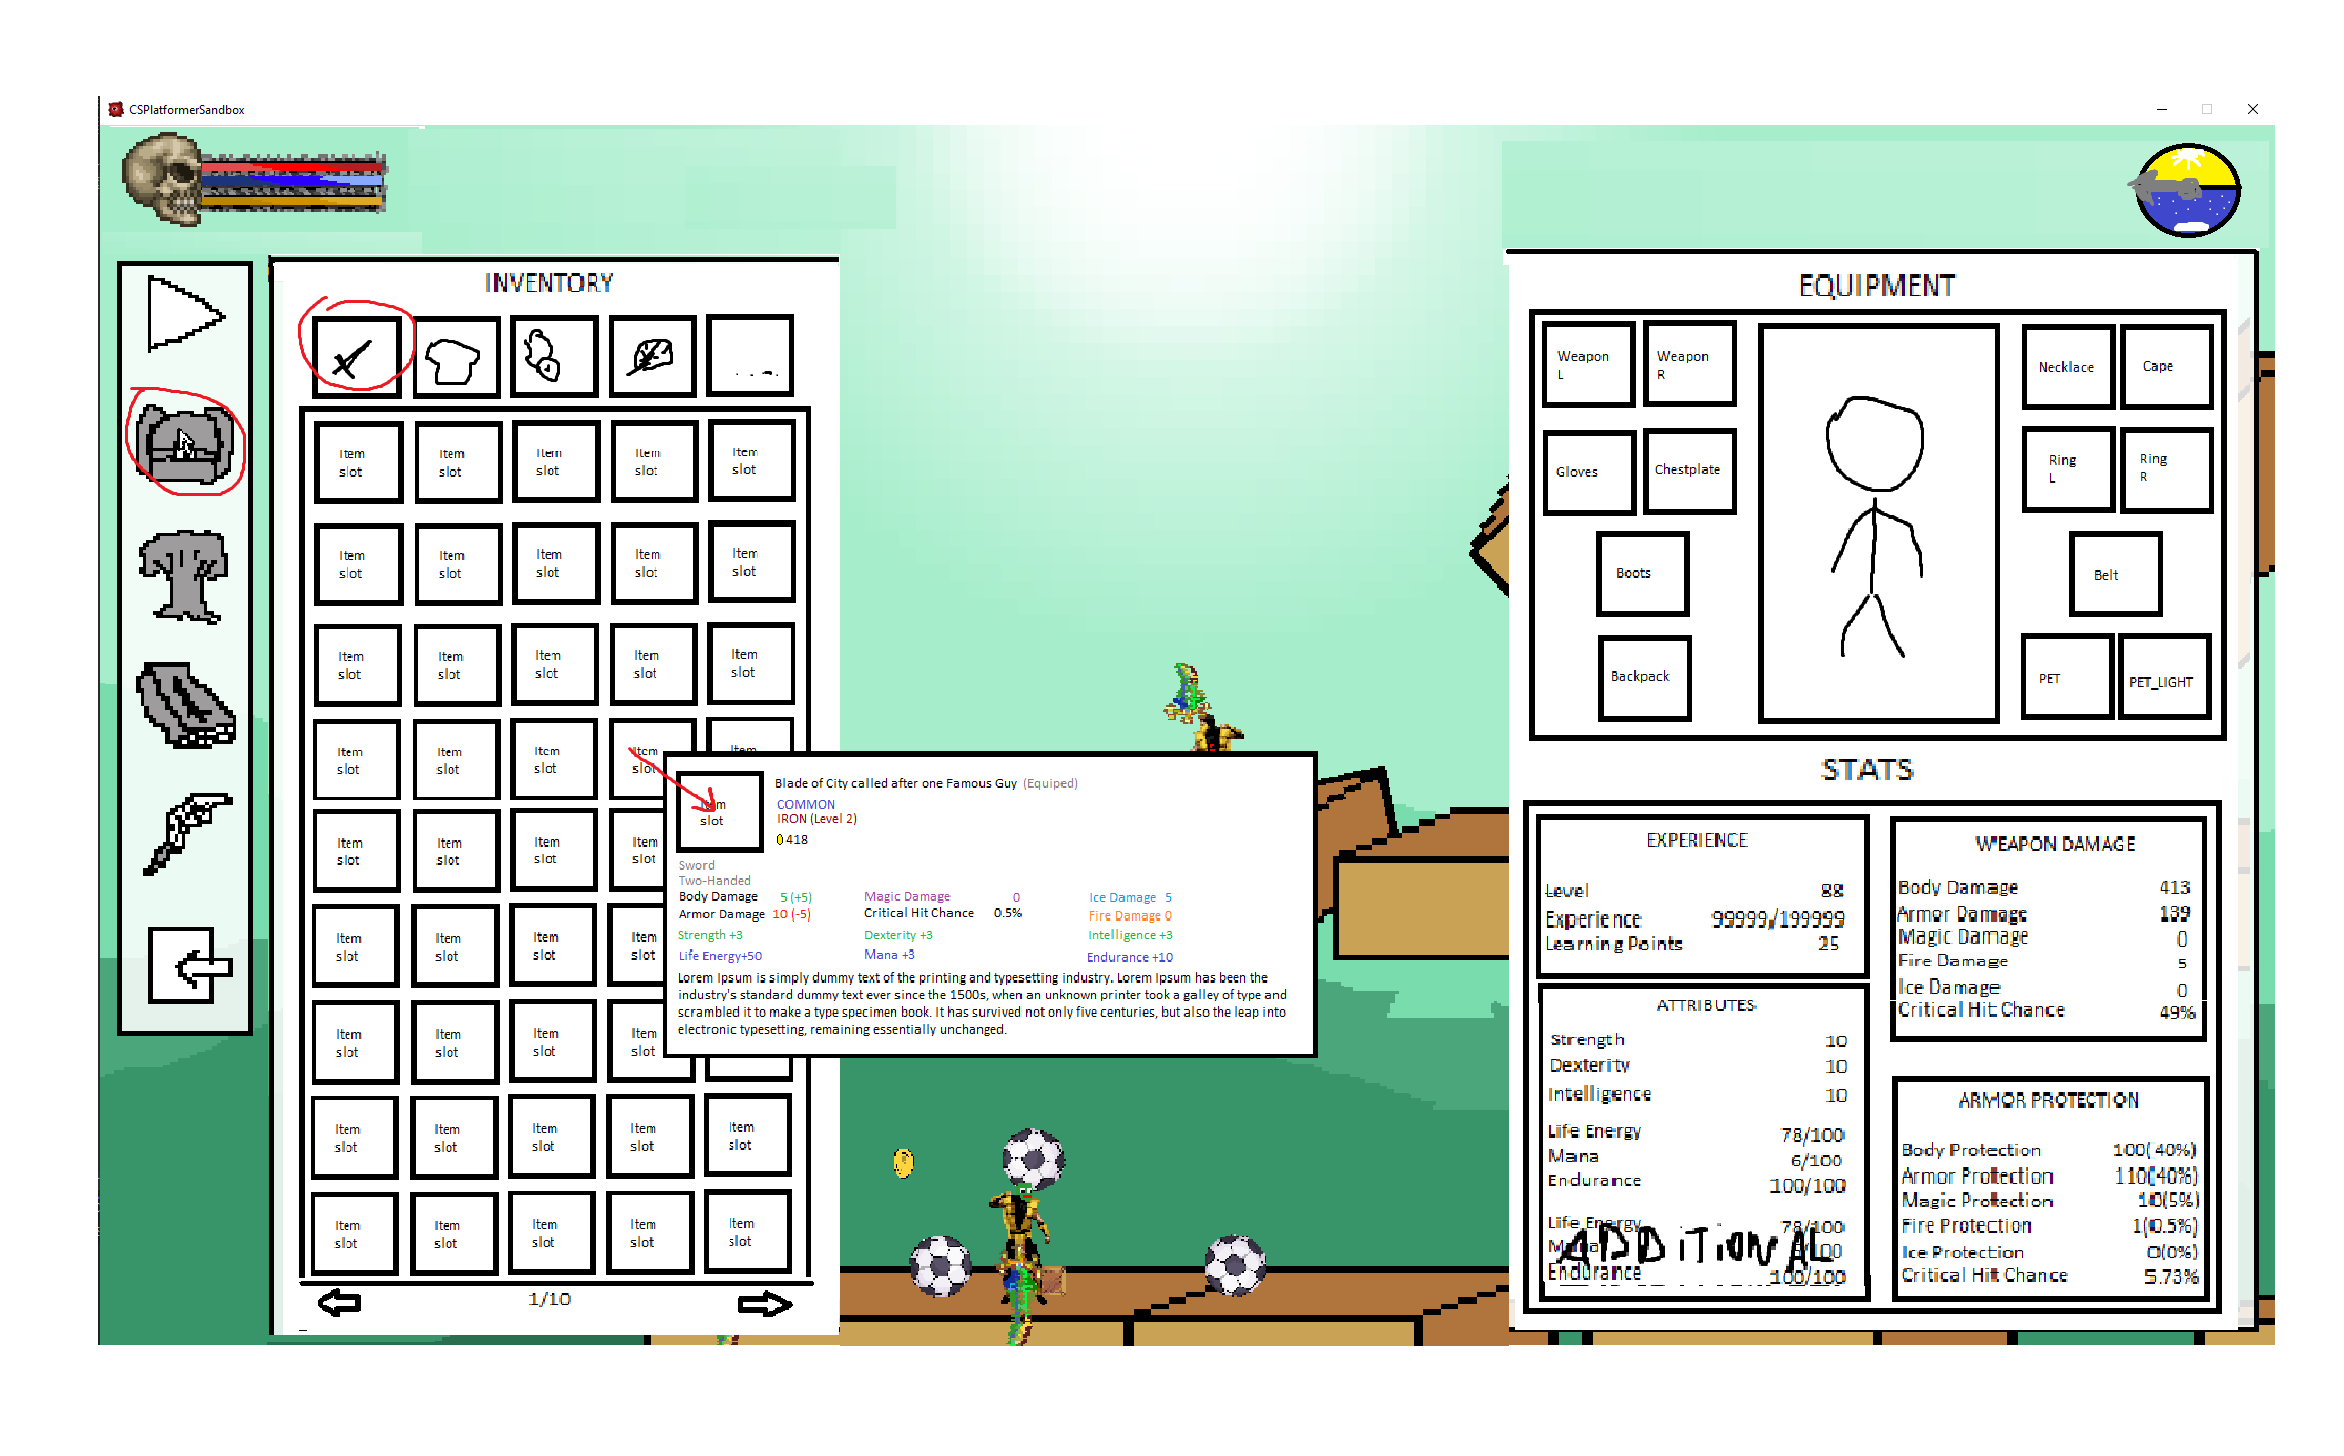
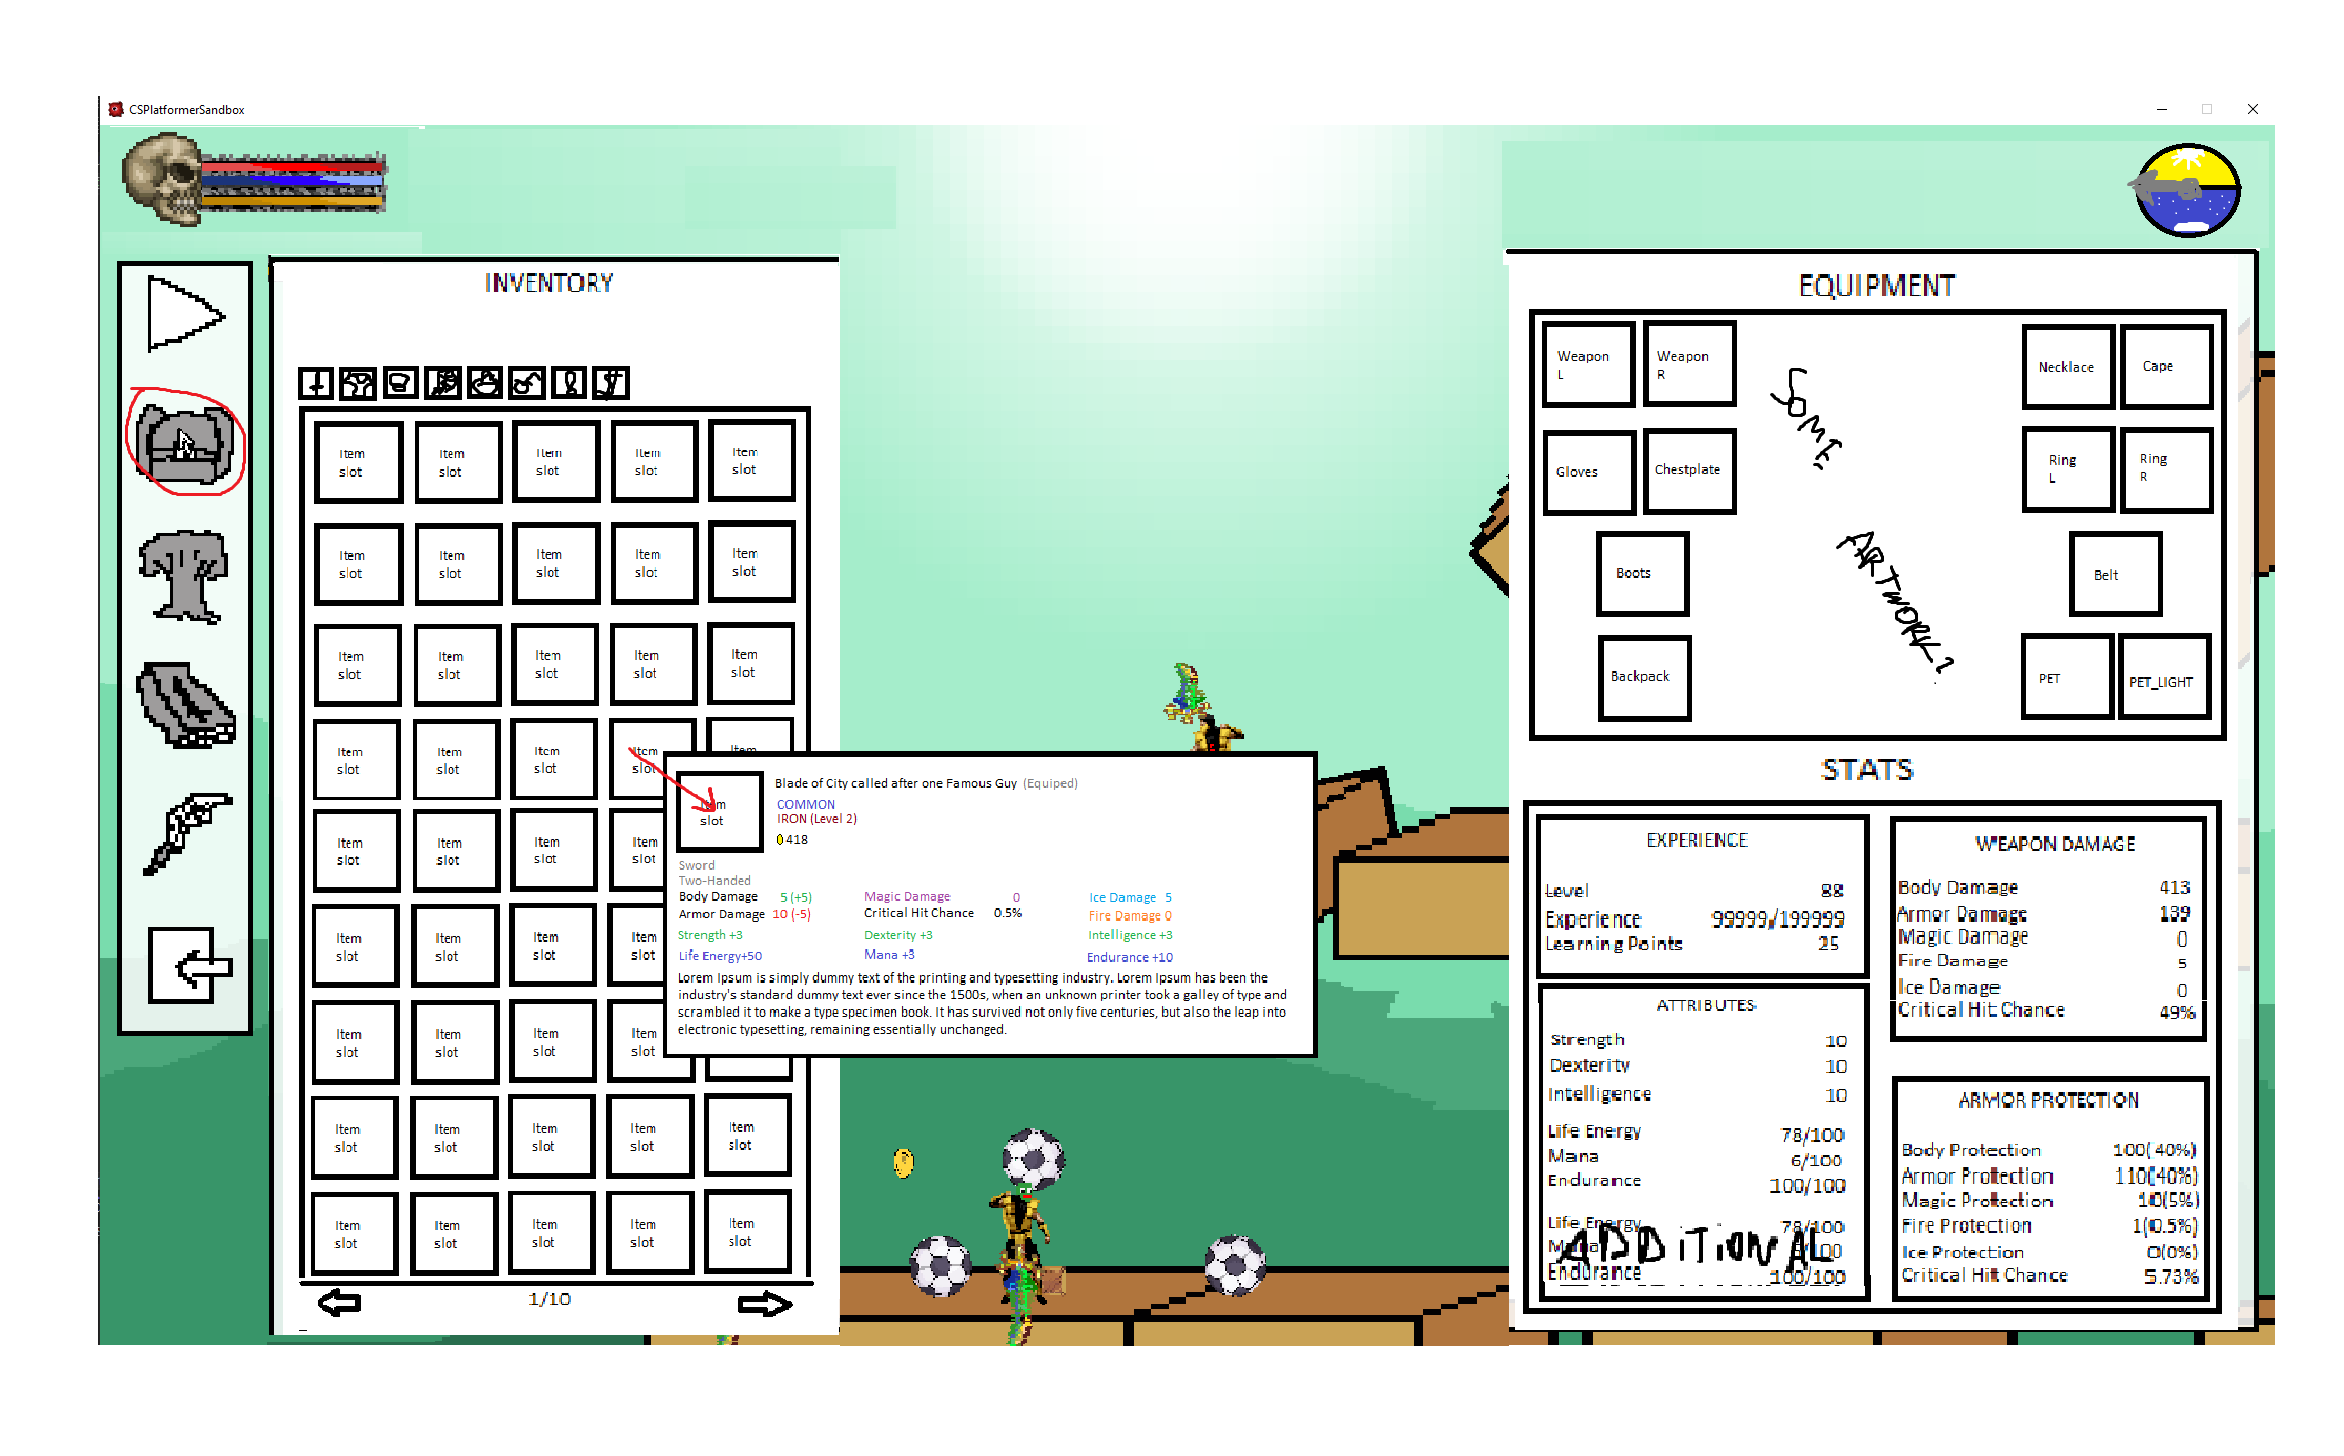
ui inventory sorting intermediate commit

Changed region(s): [[0.7474, 0.2163, 0.872, 0.4636], [0.1246, 0.2163, 0.3426, 0.2782], [0.7474, 0.4636, 0.7786, 0.4945]]

diff --git a/projects/game/src/Engine/UI/Services/Inventory/Sorting/UIInventorySortingService.cs b/projects/game/src/Engine/UI/Services/Inventory/Sorting/UIInventorySortingService.cs
@@ -10,51 +10,46 @@ namespace UI
 
     public enum UIInventorySortingOptions
     {
+        NONE,
         WEAPONS,
         ARMORS,
         ACCESSORIES,
-        POTIONS,
-        MISC,
+        MATERIALS,
+        CONSUMABLES,
+        KEYS,
+        QUEST_ITEMS,
+        CURRENCIES
     };
 
     public class UIInventorySortingService
     {
 
-        public List<Item> TotalItems;
+        public List<Item> OriginalItemList;
 
-        public UIInventorySortingService(List<Item> totalItems)
+        public UIInventorySortingService(List<Item> itemList)
         {
-            TotalItems = totalItems;
+            OriginalItemList = itemList;
         }
 
-        public List<Item> GetSortedItems(UIInventorySortingOptions newOption = UIInventorySortingOptions.WEAPONS)
+        public List<Item> GetSortedItems(UIInventorySortingOptions newOption = UIInventorySortingOptions.NONE)
         {
+            if(newOption == UIInventorySortingOptions.NONE)
+                return OriginalItemList;
 
-            List<Item> sortedItems = TotalItems
+            List<Item> sortedItems = OriginalItemList
                 .Where(item => item != null && ItemTypeToUISortingOption.TryGetValue(item.Type, out var sortingOption) && sortingOption == newOption)
+                .OrderBy(item => item.Name)
                 .ToList();
 
-            while (sortedItems.Count < TotalItems.Count)
+            sortedItems.AddRange(OriginalItemList
+                .Where(item => item != null && (!ItemTypeToUISortingOption.TryGetValue(item.Type, out var sortingOption) || sortingOption != newOption)));
+
+            while (sortedItems.Count < OriginalItemList.Count)
             {
                 sortedItems.Add(null);
             }
 
             return sortedItems;
-        }
-
-        public List<Item> GetChangedItems(List<Item> newItems, UIInventorySortingOptions sortingOption)
-        {
-            TotalItems.RemoveAll(item => item != null && ItemTypeToUISortingOption.TryGetValue(item.Type, out var option) && option == sortingOption);
-
-            TotalItems.AddRange(newItems.Where(item => item != null));
-
-            int originalSize = TotalItems.Count;
-            while (TotalItems.Count < originalSize)
-            {
-                TotalItems.Add(null);
-            }
-
-            return TotalItems;
         }
 
         public static Dictionary<ItemLib.ItemTypes, UIInventorySortingOptions> ItemTypeToUISortingOption = new()
@@ -74,12 +69,12 @@ namespace UI
             { ItemLib.ItemTypes.PET_LIGHT, UIInventorySortingOptions.ACCESSORIES },
             { ItemLib.ItemTypes.CONTAINMENT, UIInventorySortingOptions.ACCESSORIES },
 
-            { ItemLib.ItemTypes.CONSUMABLE, UIInventorySortingOptions.POTIONS },
-            { ItemLib.ItemTypes.MATERIAL, UIInventorySortingOptions.POTIONS },
+            { ItemLib.ItemTypes.CONSUMABLE, UIInventorySortingOptions.CONSUMABLES },
+            { ItemLib.ItemTypes.MATERIAL, UIInventorySortingOptions.MATERIALS },
 
-            { ItemLib.ItemTypes.CURRENCY, UIInventorySortingOptions.MISC },
-            { ItemLib.ItemTypes.KEY, UIInventorySortingOptions.MISC },
-            { ItemLib.ItemTypes.QUEST_ITEM, UIInventorySortingOptions.MISC },
+            { ItemLib.ItemTypes.CURRENCY, UIInventorySortingOptions.CURRENCIES },
+            { ItemLib.ItemTypes.KEY, UIInventorySortingOptions.KEYS },
+            { ItemLib.ItemTypes.QUEST_ITEM, UIInventorySortingOptions.QUEST_ITEMS },
         };
     }
 }

diff --git a/projects/game/src/Engine/UI/Components/Complex/Inventory/InventorySorting/UIInventorySortingOptionComponent.cs b/projects/game/src/Engine/UI/Components/Complex/Inventory/InventorySorting/UIInventorySortingOptionComponent.cs
@@ -2,9 +2,7 @@
 using System.Collections.Generic;
 using System.Linq;
 using System.Text;
-using System.Threading.Tasks;
 using static Resources.StaticSpriteFactory;
-using static UI.UIComponent;
 using Utils;
 using Microsoft.Xna.Framework;
 
@@ -27,7 +25,7 @@ namespace UI
 
             children = new UIComponent[2];
 
-            SpriteData sortingIconSlotSprite = new SpriteData(SpriteSheets.UI_ICONS, new Rectangle(64, 64, 64, 64), 0);
+            SpriteData sortingIconSlotSprite = new SpriteData(SpriteSheets.UI_ICONS, new Rectangle(64 + 16 * 0, 128, 32, 32), 0);
 
             children[0] = new UIButtonIconComponent(-1, 15, Position, sortingIconSlotSprite, new Vector2(0.75f, 0.75f));
             children[1] = new UIIconComponent(-1, GetSpriteData(), Position, new Vector2(0.75f, 0.75f));
@@ -40,20 +38,32 @@ namespace UI
 
             switch(OptionType)
             {
+                case UIInventorySortingOptions.NONE:
+                    spriteData = new SpriteData(SpriteSheets.UI_ICONS, new Rectangle(64 + 32 * 1, 128, 32, 32), 0);
+                    break;
                 case UIInventorySortingOptions.WEAPONS:
-                    spriteData = new SpriteData(SpriteSheets.UI_ICONS, new Rectangle(64 * 2, 64, 64, 64), 0);
+                    spriteData = new SpriteData(SpriteSheets.UI_ICONS, new Rectangle(64 + 32 * 2, 128, 32, 32), 0);
                     break;
                 case UIInventorySortingOptions.ARMORS:
-                    spriteData = new SpriteData(SpriteSheets.UI_ICONS, new Rectangle(64 * 3, 64, 64, 64), 0);
+                    spriteData = new SpriteData(SpriteSheets.UI_ICONS, new Rectangle(64 + 32 * 3, 128, 32, 32), 0);
                     break;
                 case UIInventorySortingOptions.ACCESSORIES:
-                    spriteData = new SpriteData(SpriteSheets.UI_ICONS, new Rectangle(64 * 4, 64, 64, 64), 0);
+                    spriteData = new SpriteData(SpriteSheets.UI_ICONS, new Rectangle(64 + 32 * 4, 128, 32, 32), 0);
                     break;
-                case UIInventorySortingOptions.POTIONS:
-                    spriteData = new SpriteData(SpriteSheets.UI_ICONS, new Rectangle(64 * 5, 64, 64, 64), 0);
+                case UIInventorySortingOptions.MATERIALS:
+                    spriteData = new SpriteData(SpriteSheets.UI_ICONS, new Rectangle(64 + 32 * 5, 128, 32, 32), 0);
                     break;
-                case UIInventorySortingOptions.MISC:
-                    spriteData = new SpriteData(SpriteSheets.UI_ICONS, new Rectangle(64 * 6, 64, 64, 64), 0);
+                case UIInventorySortingOptions.CONSUMABLES:
+                    spriteData = new SpriteData(SpriteSheets.UI_ICONS, new Rectangle(64 + 32 * 6, 128, 32, 32), 0);
+                    break;
+                case UIInventorySortingOptions.KEYS:
+                    spriteData = new SpriteData(SpriteSheets.UI_ICONS, new Rectangle(64 + 32 * 7, 128, 32, 32), 0);
+                    break;
+                case UIInventorySortingOptions.QUEST_ITEMS:
+                    spriteData = new SpriteData(SpriteSheets.UI_ICONS, new Rectangle(64 + 32 * 8, 128, 32, 32), 0);
+                    break;
+                case UIInventorySortingOptions.CURRENCIES:
+                    spriteData = new SpriteData(SpriteSheets.UI_ICONS, new Rectangle(64 + 32 * 9, 128, 32, 32), 0);
                     break;
             }
 

diff --git a/projects/game/src/Engine/UI/Components/Complex/Inventory/InventorySorting/UIInventorySortingPanelComponent.cs b/projects/game/src/Engine/UI/Components/Complex/Inventory/InventorySorting/UIInventorySortingPanelComponent.cs
@@ -17,13 +17,17 @@ namespace UI
 
             type = UIComponentTypes.INVENTORY_SORTING_PANEL;
 
-            children = new UIComponent[5];
+            children = new UIComponent[9];
 
-            children[0] = new UIInventorySortingOptionComponent(-1, new Vector2(Position.X + ((64 * 0.75f) + 4) * 0, Position.Y), UIInventorySortingOptions.WEAPONS);
-            children[1] = new UIInventorySortingOptionComponent(-1, new Vector2(Position.X + ((64 * 0.75f) + 4) * 1, Position.Y), UIInventorySortingOptions.ARMORS);
-            children[2] = new UIInventorySortingOptionComponent(-1, new Vector2(Position.X + ((64 * 0.75f) + 4) * 2, Position.Y), UIInventorySortingOptions.ACCESSORIES);
-            children[3] = new UIInventorySortingOptionComponent(-1, new Vector2(Position.X + ((64 * 0.75f) + 4) * 3, Position.Y), UIInventorySortingOptions.POTIONS);
-            children[4] = new UIInventorySortingOptionComponent(-1, new Vector2(Position.X + ((64 * 0.75f) + 4) * 4, Position.Y), UIInventorySortingOptions.MISC);
+            children[0] = new UIInventorySortingOptionComponent(-1, new Vector2(Position.X + ((32 * 0.75f) + 2) * 0, Position.Y), UIInventorySortingOptions.NONE);
+            children[1] = new UIInventorySortingOptionComponent(-1, new Vector2(Position.X + ((32 * 0.75f) + 2) * 1, Position.Y), UIInventorySortingOptions.WEAPONS);
+            children[2] = new UIInventorySortingOptionComponent(-1, new Vector2(Position.X + ((32 * 0.75f) + 2) * 2, Position.Y), UIInventorySortingOptions.ARMORS);
+            children[3] = new UIInventorySortingOptionComponent(-1, new Vector2(Position.X + ((32 * 0.75f) + 2) * 3, Position.Y), UIInventorySortingOptions.ACCESSORIES);
+            children[4] = new UIInventorySortingOptionComponent(-1, new Vector2(Position.X + ((32 * 0.75f) + 2) * 4, Position.Y), UIInventorySortingOptions.MATERIALS);
+            children[5] = new UIInventorySortingOptionComponent(-1, new Vector2(Position.X + ((32 * 0.75f) + 2) * 5, Position.Y), UIInventorySortingOptions.CONSUMABLES);
+            children[6] = new UIInventorySortingOptionComponent(-1, new Vector2(Position.X + ((32 * 0.75f) + 2) * 6, Position.Y), UIInventorySortingOptions.KEYS);
+            children[7] = new UIInventorySortingOptionComponent(-1, new Vector2(Position.X + ((32 * 0.75f) + 2) * 7, Position.Y), UIInventorySortingOptions.QUEST_ITEMS);
+            children[8] = new UIInventorySortingOptionComponent(-1, new Vector2(Position.X + ((32 * 0.75f) + 2) * 8, Position.Y), UIInventorySortingOptions.CURRENCIES);
         }
 
 

diff --git a/projects/game/src/Engine/UI/Components/Complex/Inventory/UIInventoryComponent.cs b/projects/game/src/Engine/UI/Components/Complex/Inventory/UIInventoryComponent.cs
@@ -1,5 +1,6 @@
 using Entities;
 using Microsoft.Xna.Framework;
+using System;
 using System.Collections.Generic;
 
 
@@ -18,6 +19,8 @@ namespace UI
         public List<Item> Items;
         public UIInventoryTypes InventoryType;
 
+        public UIInventorySortingService SortingService;
+
 
         public UIInventoryComponent(int id, Vector2 pos, Inventory inventory) : base(id)
         {
@@ -25,7 +28,8 @@ namespace UI
 
             type = UIComponentTypes.INVENTORY;
 
-            Items = inventory.Items;
+            SortingService = new UIInventorySortingService(inventory.Items);
+            Items = SortingService.GetSortedItems();
 
             InventoryType = UIInventoryTypes.INVENTORY;
 
@@ -46,7 +50,7 @@ namespace UI
 
             Items = equipments.ToInventory().Items;
 
-            children = new UIComponent[1];
+            children = new UIComponent[4];
             children[0] = new UIInventorySlotBoardComponent(-1, pos, Items, new int[][] { new int[] { -1 } });
         }
 
@@ -59,6 +63,17 @@ namespace UI
                     if(children[i] != null)
                     {
                         children[i].Update();
+                    }
+                }
+
+
+                if (children[1] != null)
+                {
+                    if (((UIInventorySortingPanelComponent)children[1]).WasOptionTypeChangedFlag)
+                    {
+                        Items = SortingService.GetSortedItems(((UIInventorySortingPanelComponent)children[1]).CurrentOptionType);
+                        Refresh();
+                        children[0] = new UIInventorySlotBoardComponent(-1, Position, Items);
                     }
                 }
             }
@@ -76,6 +91,17 @@ namespace UI
                     }
                 }
             }
+        }
+
+
+        public override void Refresh()
+        {
+            foreach (UIComponent child in children)
+            {
+                child.Refresh();
+            }
+
+            base.Refresh();
         }
     }
 }

diff --git a/projects/game/src/Engine/Entities/ItemEntities/Types/Item.cs b/projects/game/src/Engine/Entities/ItemEntities/Types/Item.cs
@@ -25,7 +25,6 @@ namespace Entities
     {
         public ItemKey ItemKey;
         public ItemLib.ItemTypes Type;
-        public UI.UIInventorySortingOptions InventorySortingOption;
         public int Value;
         public string Name;
         public string Description;
@@ -46,7 +45,6 @@ namespace Entities
         {
             ItemKey = itemKey;
             Type = ItemFactory.GetItemType(itemKey);
-            InventorySortingOption = UIInventorySortingService.ItemTypeToUISortingOption[Type];
 
             SetItem();
         }

diff --git a/projects/game/src/Engine/Resources/Sprite/StaticSpriteFactory.cs b/projects/game/src/Engine/Resources/Sprite/StaticSpriteFactory.cs
@@ -17,7 +17,7 @@ namespace Resources
             public float z;
             public float currentZ;
             public SpriteEffects effect;
-            public SpriteData(SpriteSheets sheet, Rectangle srcRect, float z)
+            public SpriteData(SpriteSheets sheet, Rectangle srcRect, float z = 0)
             {
                 this.sheet = sheet;
                 this.srcRect = srcRect;
